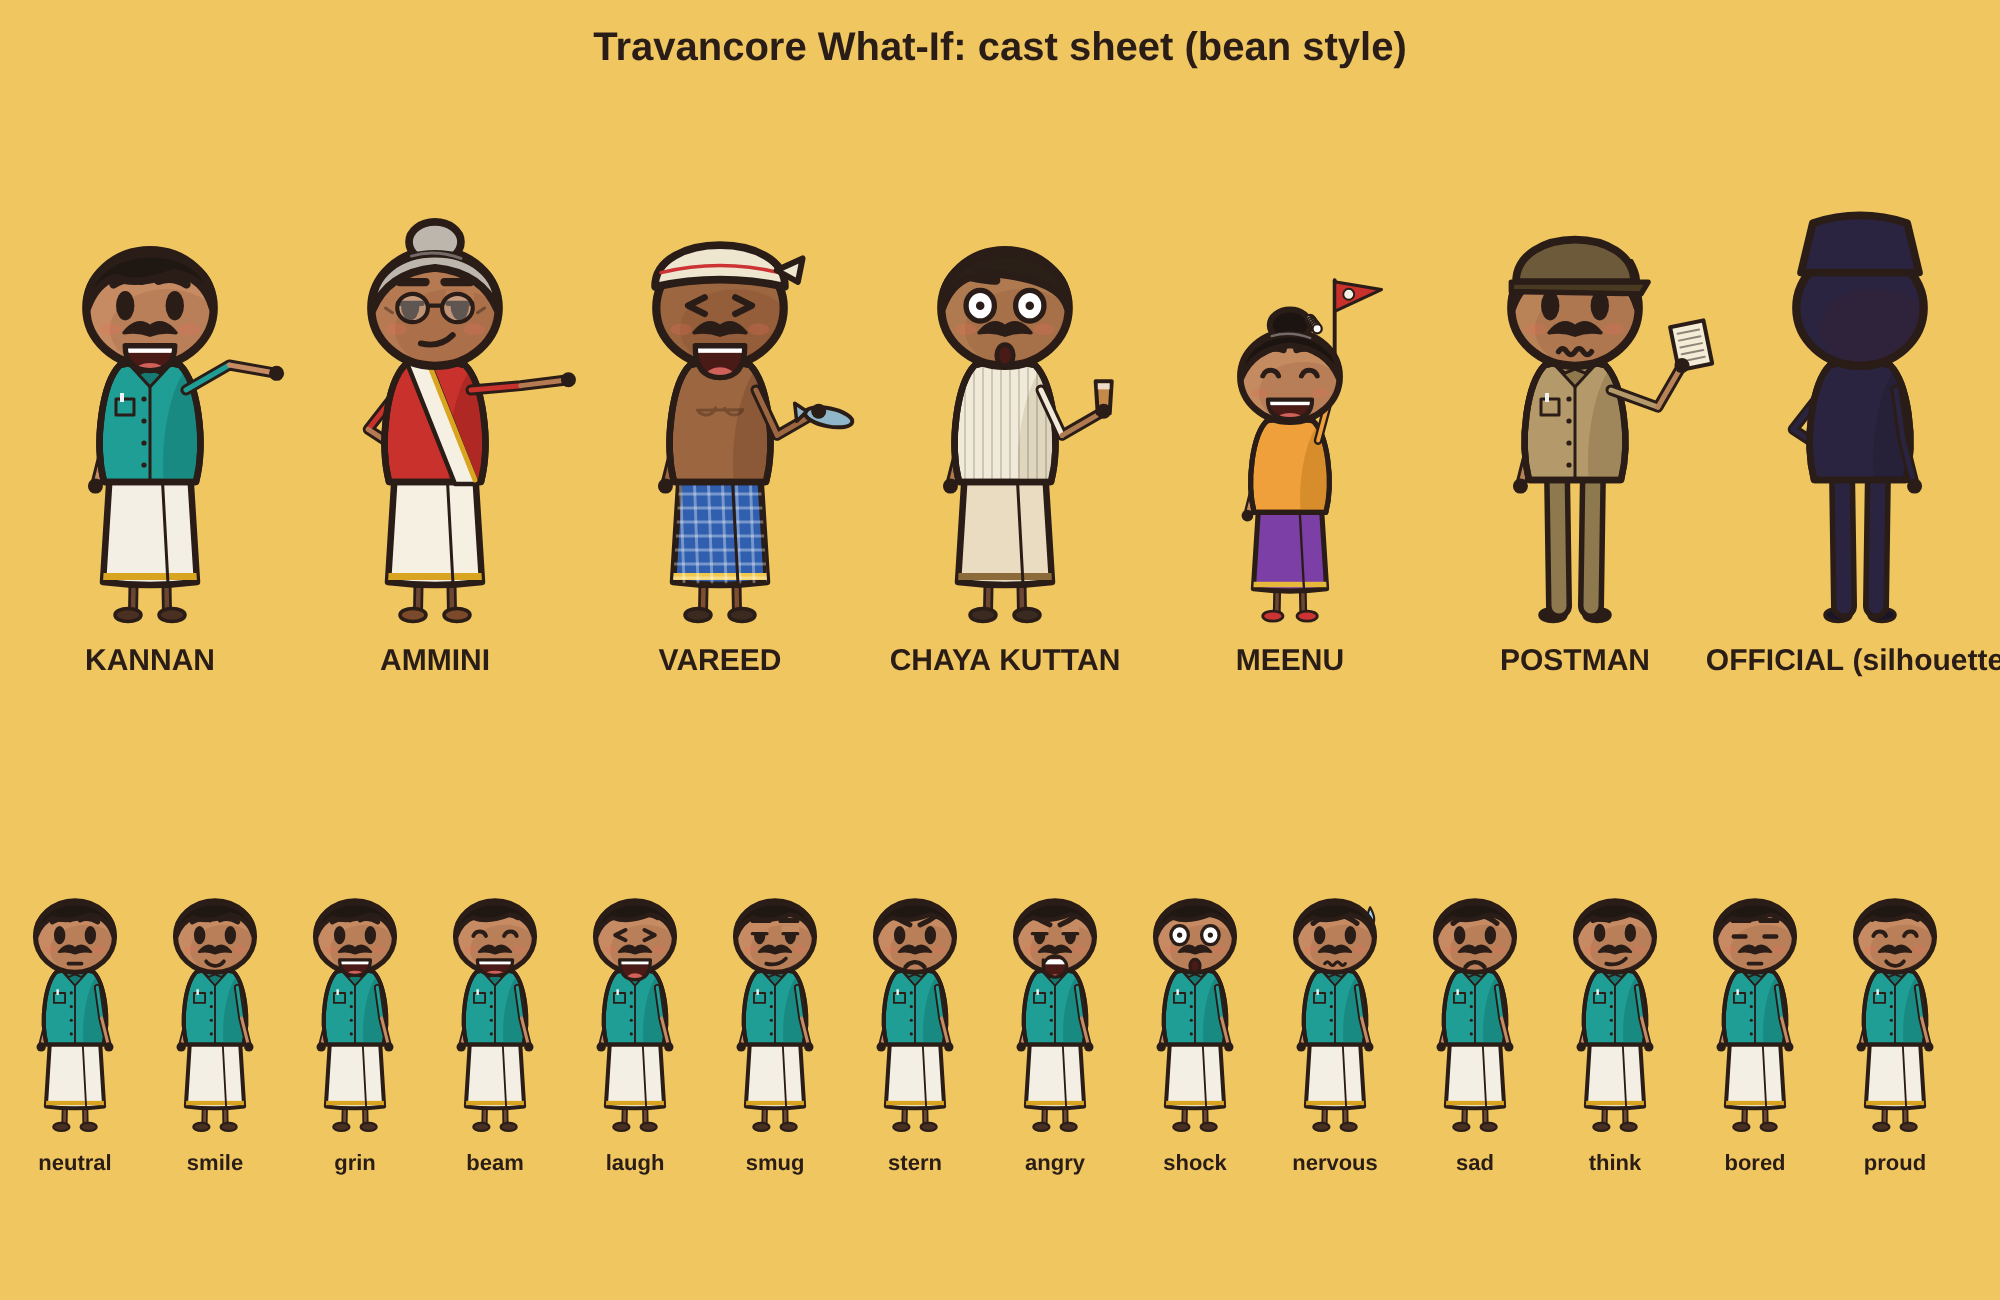
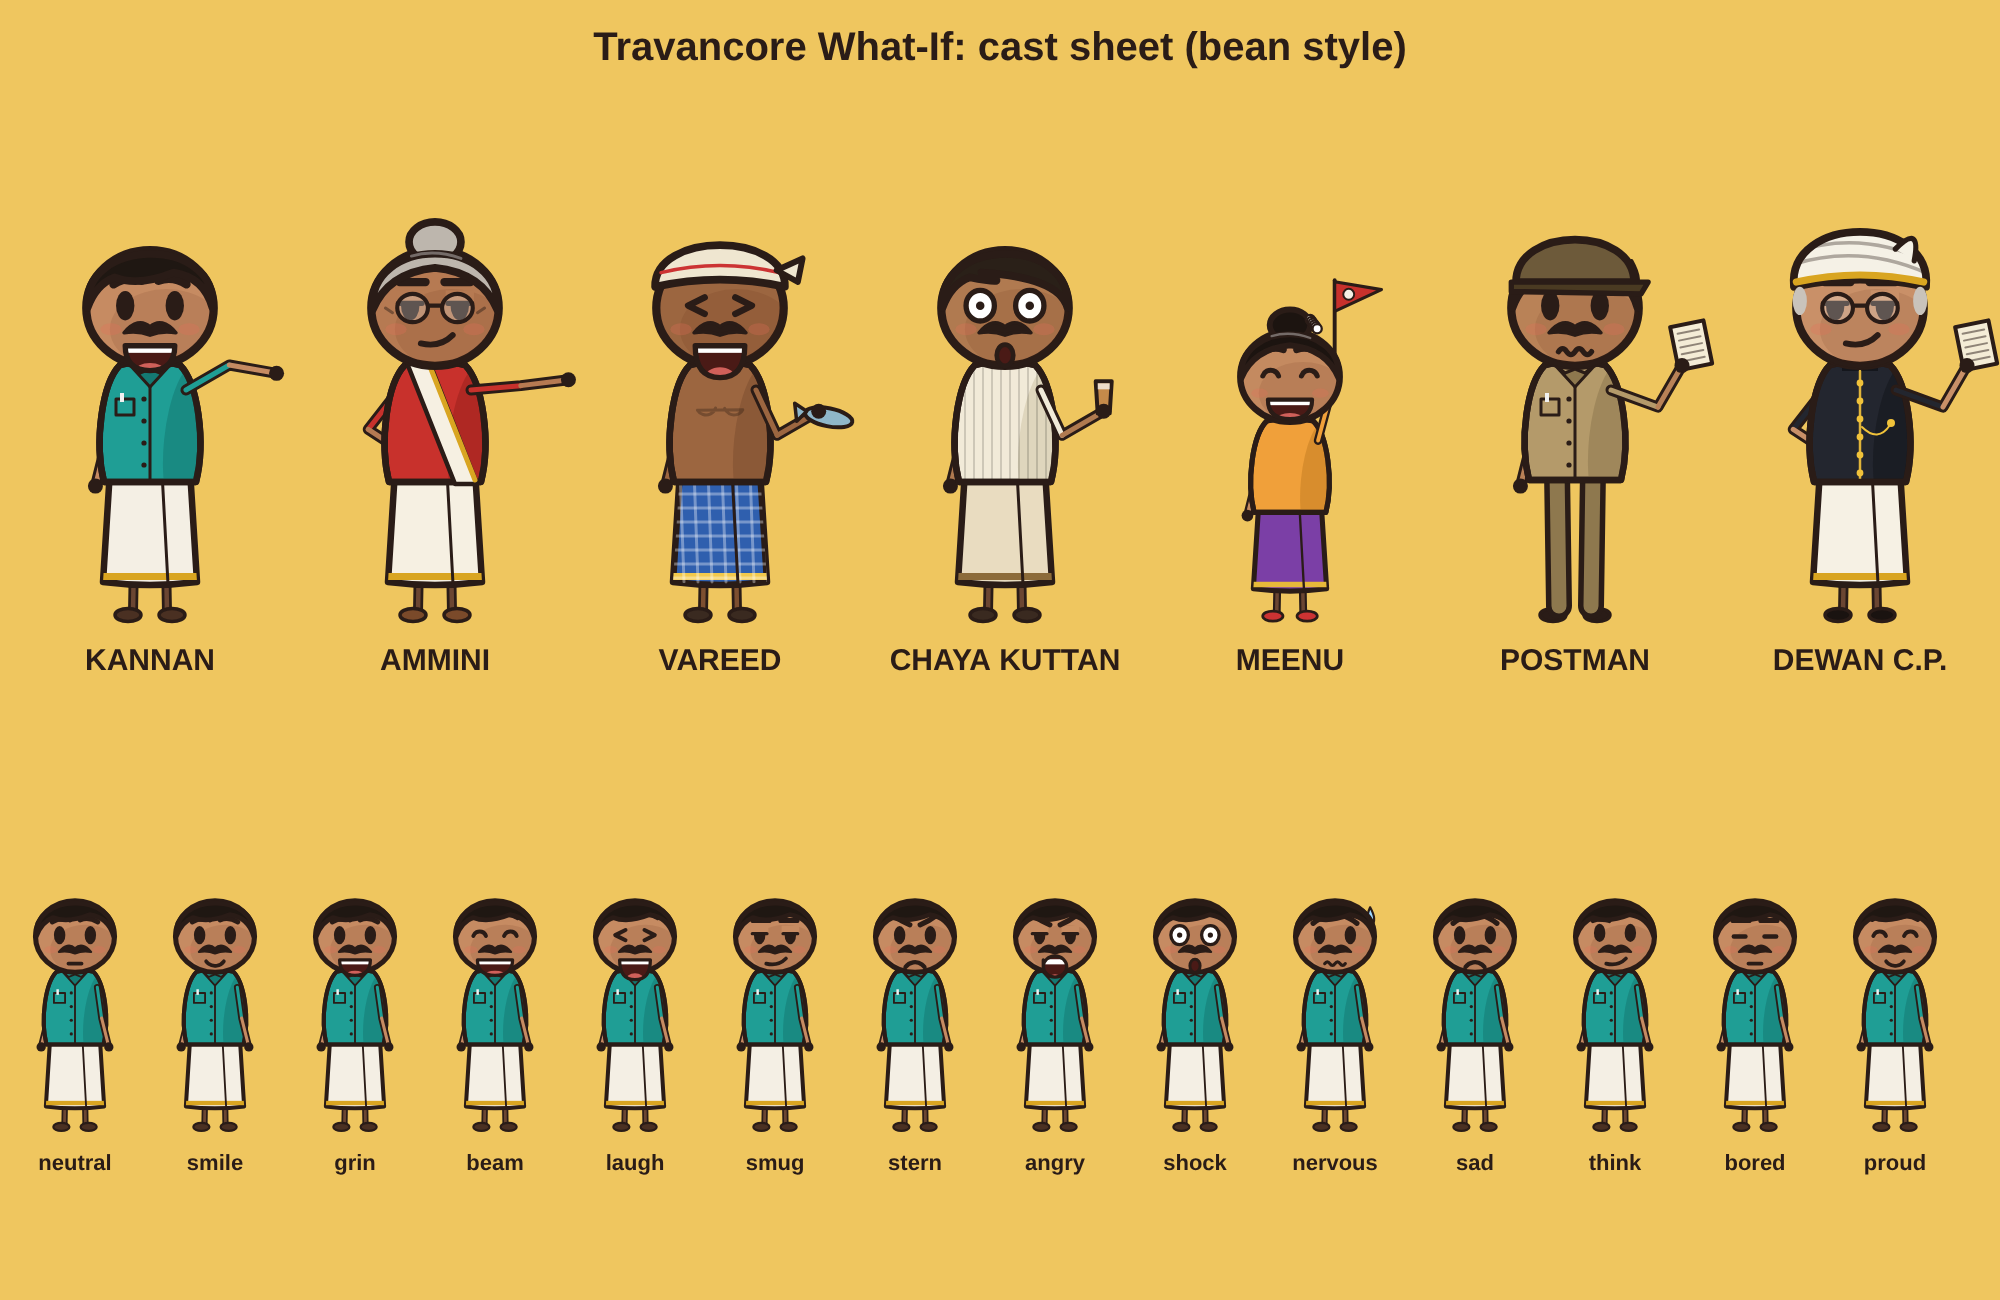
Add Dewan C.P. Ramaswami Iyer caricature to the bean cast
Claude-Session: https://claude.ai/code/session_01WnQ5C3W2hYd18Nh3bKvGAq

Changed region(s): [[0.837, 0.1538, 1.0, 0.5231]]

diff --git a/pipeline/bean.js b/pipeline/bean.js
@@ -153,6 +153,17 @@ function towelHead(color) { // thorthu tied on head (fisherman)
     ctx.beginPath(); ctx.moveTo(48, -332); ctx.lineTo(70, -342); ctx.lineTo(66, -322); ctx.closePath(); fs(ctx, color, 5);
   };
 }
+function turban(color, band) { // formal talappa of the 1940s court
+  return (ctx) => {
+    ctx.beginPath(); ctx.moveTo(-56, -318); ctx.bezierCurveTo(-62, -380, 62, -380, 56, -318); ctx.quadraticCurveTo(0, -330, -56, -318); ctx.closePath(); fs(ctx, color);
+    ctx.save(); ctx.clip(); ctx.strokeStyle = 'rgba(42,28,23,.35)'; ctx.lineWidth = 3;
+    for (let i = 0; i < 4; i++) { ctx.beginPath(); ctx.moveTo(-60, -336 - i * 10); ctx.quadraticCurveTo(0, -356 - i * 12, 60, -328 - i * 10); ctx.stroke(); } ctx.restore();
+    ctx.strokeStyle = band; ctx.lineWidth = 6; ctx.beginPath(); ctx.moveTo(-54, -322); ctx.quadraticCurveTo(0, -334, 54, -322); ctx.stroke();
+    ctx.beginPath(); ctx.moveTo(30, -350); ctx.quadraticCurveTo(52, -372, 46, -340); fs(ctx, color, 4.5);
+    // grey sideburns
+    ctx.fillStyle = '#c9c3bb'; for (const s of [-1, 1]) { ctx.beginPath(); ctx.ellipse(s * 51, -306, 6, 12, 0, 0, 7); ctx.fill(); }
+  };
+}
 function moustache(ctx, c = INK) { ctx.beginPath(); ctx.moveTo(-22, -279); ctx.quadraticCurveTo(-10, -293, 0, -284); ctx.quadraticCurveTo(10, -293, 22, -279); ctx.quadraticCurveTo(10, -281, 0, -277); ctx.quadraticCurveTo(-10, -281, -22, -279); ctx.closePath(); ctx.fillStyle = c; ctx.fill(); ctx.strokeStyle = c; ctx.lineWidth = 3; ctx.stroke(); }
 function glasses(ctx) { ctx.strokeStyle = INK; ctx.lineWidth = 3.5; for (const s of [-1, 1]) { ell(ctx, s * 19, -300, 13, 12); ctx.fillStyle = 'rgba(255,255,255,.25)'; ctx.fill(); ctx.stroke(); } ctx.beginPath(); ctx.moveTo(-6, -302); ctx.lineTo(6, -302); ctx.stroke(); }
 
@@ -169,6 +180,8 @@ export const CAST = {
     shirt: '#f0a03a', shirtDark: '#c57d22', lower: 'pavada', mundu: '#7b3fa6', kasavu: '#e7b93a', legs: '#6b4632', shoes: '#c33' },
   postman: { name: 'POSTMAN', skin: '#b98257', hair: hairShort('#2a2018', 1), stache: true, cap: '#6d5a3a',
     shirt: '#b49a6a', shirtDark: '#8e784e', collar: true, pocket: true, lower: 'pants', mundu: '#8e784e', legs: '#8e784e', shoes: '#2a1c17' },
+  dewan: { name: 'DEWAN C.P.', skin: '#c99068', hair: turban('#f5f1e6', '#d9a521'), glasses: true, coat: true,
+    shirt: '#23262f', shirtDark: '#14161c', collar: false, lower: 'mundu', mundu: '#f6f1e4', kasavu: '#d9a521', legs: '#6b4632', shoes: '#1a1310' },
   official: { name: 'OFFICIAL (silhouette)', silhouette: true, skin: '#2b2440', shirt: '#2b2440', lower: 'pants', mundu: '#2b2440', legs: '#2b2440', shoes: '#1a1528', hair: (ctx) => { ctx.beginPath(); ctx.moveTo(-50,-330); ctx.lineTo(-40,-372); ctx.quadraticCurveTo(0,-385,40,-372); ctx.lineTo(50,-330); ctx.closePath(); fs(ctx,'#2b2440'); } },
 };
 
@@ -200,6 +213,9 @@ function torso(ctx, c) {
   if (c.banian) { ctx.strokeStyle = 'rgba(0,0,0,.15)'; ctx.lineWidth = 2; for (let x = -40; x < 45; x += 9) { ctx.beginPath(); ctx.moveTo(x, top); ctx.lineTo(x, bot); ctx.stroke(); } }
   if (c.collar) { ctx.fillStyle = c.shirtDark; ctx.beginPath(); ctx.moveTo(-22, top - 2); ctx.lineTo(0, top + 22); ctx.lineTo(22, top - 2); ctx.lineTo(10, top + 8); ctx.lineTo(0, top + 4); ctx.lineTo(-10, top + 8); ctx.closePath(); ctx.fill(); ctx.strokeStyle = INK; ctx.lineWidth = 3; ctx.stroke();
     ctx.beginPath(); ctx.moveTo(0, top + 22); ctx.lineTo(0, bot); ctx.stroke(); for (let y = top + 34; y < bot - 6; y += 22) { ell(ctx, -6, y, 2.6, 2.6); ctx.fillStyle = INK; ctx.fill(); } }
+  if (c.coat) { ctx.fillStyle = '#14161c'; ctx.fillRect(-18, top - 4, 36, 10); ctx.strokeStyle = '#e0b43a'; ctx.lineWidth = 2.5; ctx.beginPath(); ctx.moveTo(0, top + 6); ctx.lineTo(0, bot); ctx.stroke();
+    for (let y = top + 18; y < bot - 6; y += 18) { ell(ctx, 0, y, 3.4, 3.4); ctx.fillStyle = '#f0c23a'; ctx.fill(); }
+    ctx.strokeStyle = '#f0c23a'; ctx.lineWidth = 2; ctx.beginPath(); ctx.moveTo(2, top + 62); ctx.quadraticCurveTo(18, top + 78, 30, top + 60); ctx.stroke(); ell(ctx, 31, top + 58, 4, 4); ctx.fillStyle = '#f0c23a'; ctx.fill(); }
   if (c.pocket) { ctx.strokeStyle = INK; ctx.lineWidth = 3; ctx.strokeRect(-34, top + 34, 18, 16); ctx.fillStyle = '#f1f1f1'; ctx.fillRect(-30, top + 28, 4, 9); }
   if (c.bare) { ctx.strokeStyle = 'rgba(0,0,0,.25)'; ctx.lineWidth = 3; ctx.beginPath(); ctx.arc(-14, top + 40, 10, 0.3, 2.6); ctx.arc(14, top + 40, 10, 0.5, 2.8); ctx.stroke(); }
   ctx.restore();

diff --git a/CLAUDE.md b/CLAUDE.md
@@ -5,7 +5,7 @@ The channel was first called "Paper Empires". Episode 1 went out under that name
 The owner reads on a phone, so keep messages short and put the outcome first.
 
 ## Standing rules from the owner
-- **Malayalam what-if Shorts (new channel):** 2.5D pixel-diorama look (3D sets via `pipeline/px3d.js`, or clips the owner generates in Gemini from `content/malayalam/travancore/gemini-prompts.md`). Recurring cast across episodes: KANNAN (teal shirt, white mundu, our guide), AMMINI (red blouse, coastal elder), a villager crowd pack, real officials only as faceless silhouettes. Maps show only the Kerala coast: never Kashmir/Arunachal or India-wide borders. Daytime scenes are lit as daytime.
+- **Malayalam what-if Shorts (new channel):** 2.5D pixel-diorama look (3D sets via `pipeline/px3d.js`, or clips the owner generates in Gemini from `content/malayalam/travancore/gemini-prompts.md`). Recurring cast across episodes: KANNAN (teal shirt, white mundu, our guide), AMMINI (red blouse, coastal elder), a villager crowd pack, real historical figures drawn as friendly caricatures in the same bean style (owner, 25 Nov; e.g. Dewan C.P. Ramaswami Iyer). Look: bean-head characters in inked 3D sets (owner's Ricks-style kit; cast drawn by `pipeline/bean.js`). Maps show only the Kerala coast: never Kashmir/Arunachal or India-wide borders. Daytime scenes are lit as daytime.
 - **NEW DIRECTION (14 Nov): Shorts only** (71% of views come from the Shorts feed). Native 9:16. Hook in the first second: line one states the stakes (no scene-setting intros such as 'Venice, the 1700s'). Fast cuts (every 1.5–2 s), big readable text, real faces/photos where licensed. The owner wants animation quality 10x better than episodes 3–7.
 - **Voice:** Kokoro is too flat. Testing Chatterbox (expressive, MIT, CPU; env `/home/user/venvs/cb`, samples in `content/voice-samples/`). The pipeline also accepts the owner's own recordings (`<episode>/voice/<scene>-<n>.wav`).
 - **Never change published episodes**: episode 1 (`ep01-satyam`) and episode 2 (`ep02-nvidia`), including their content folders.
